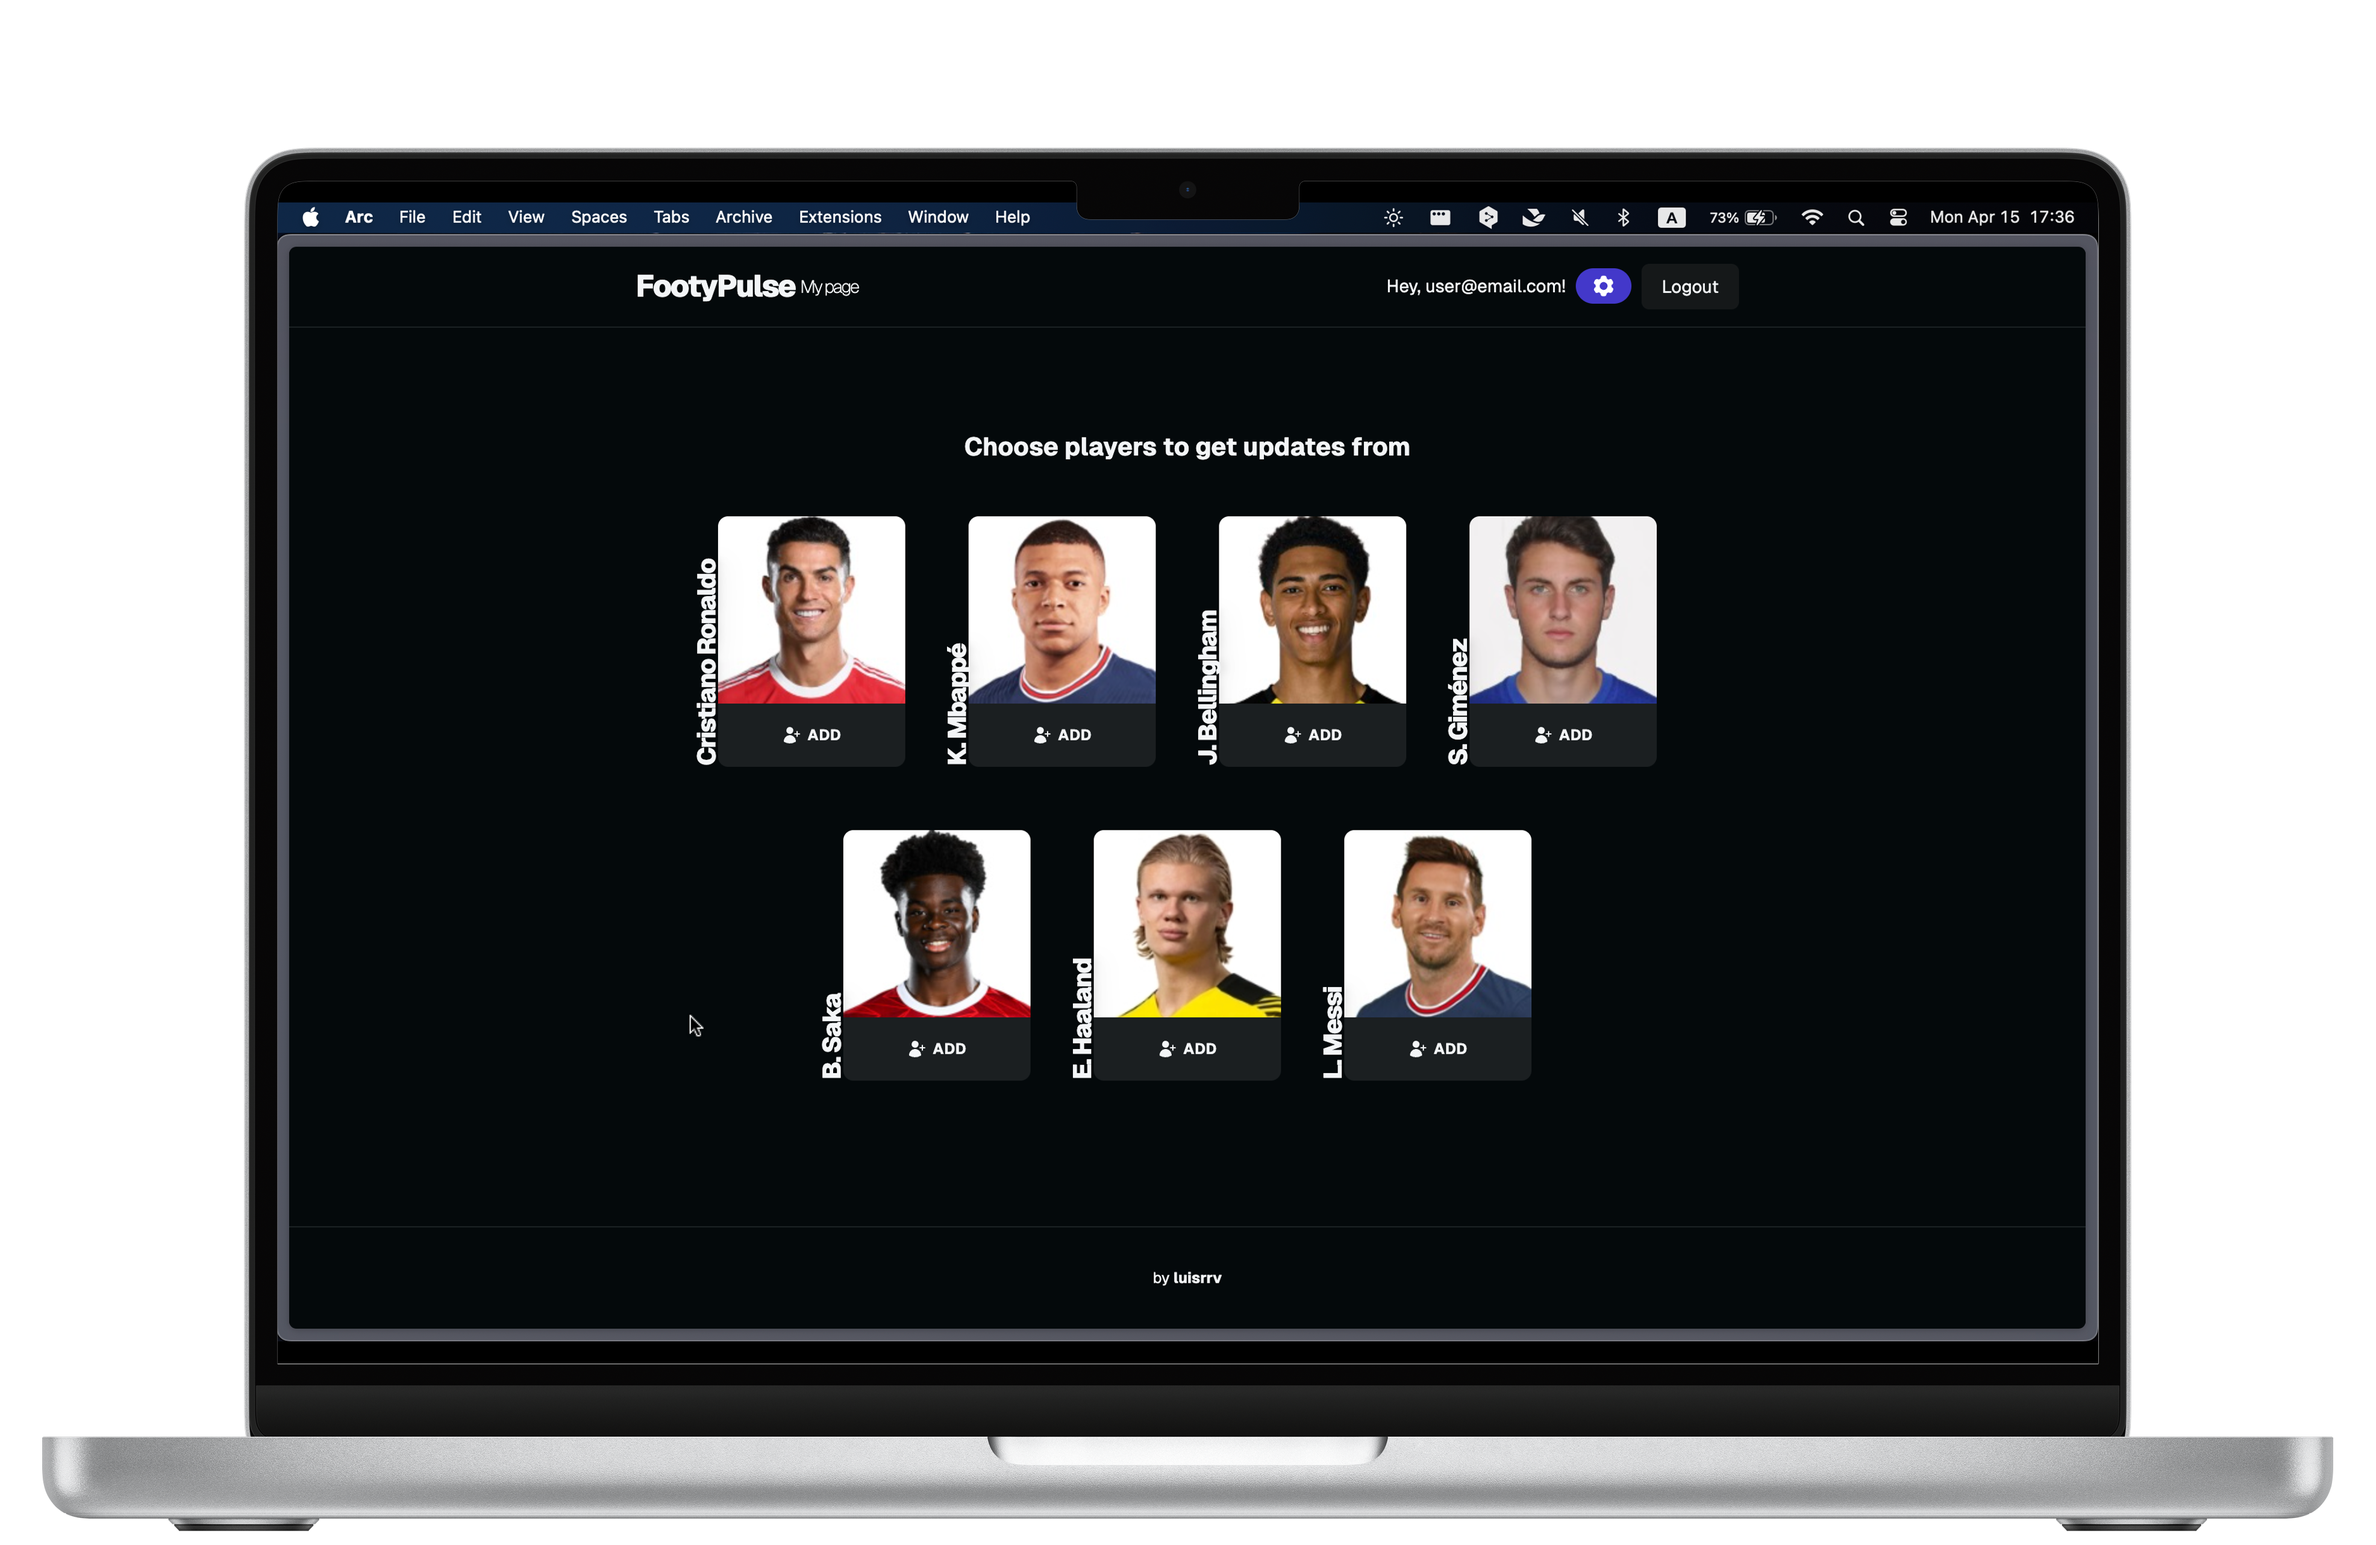
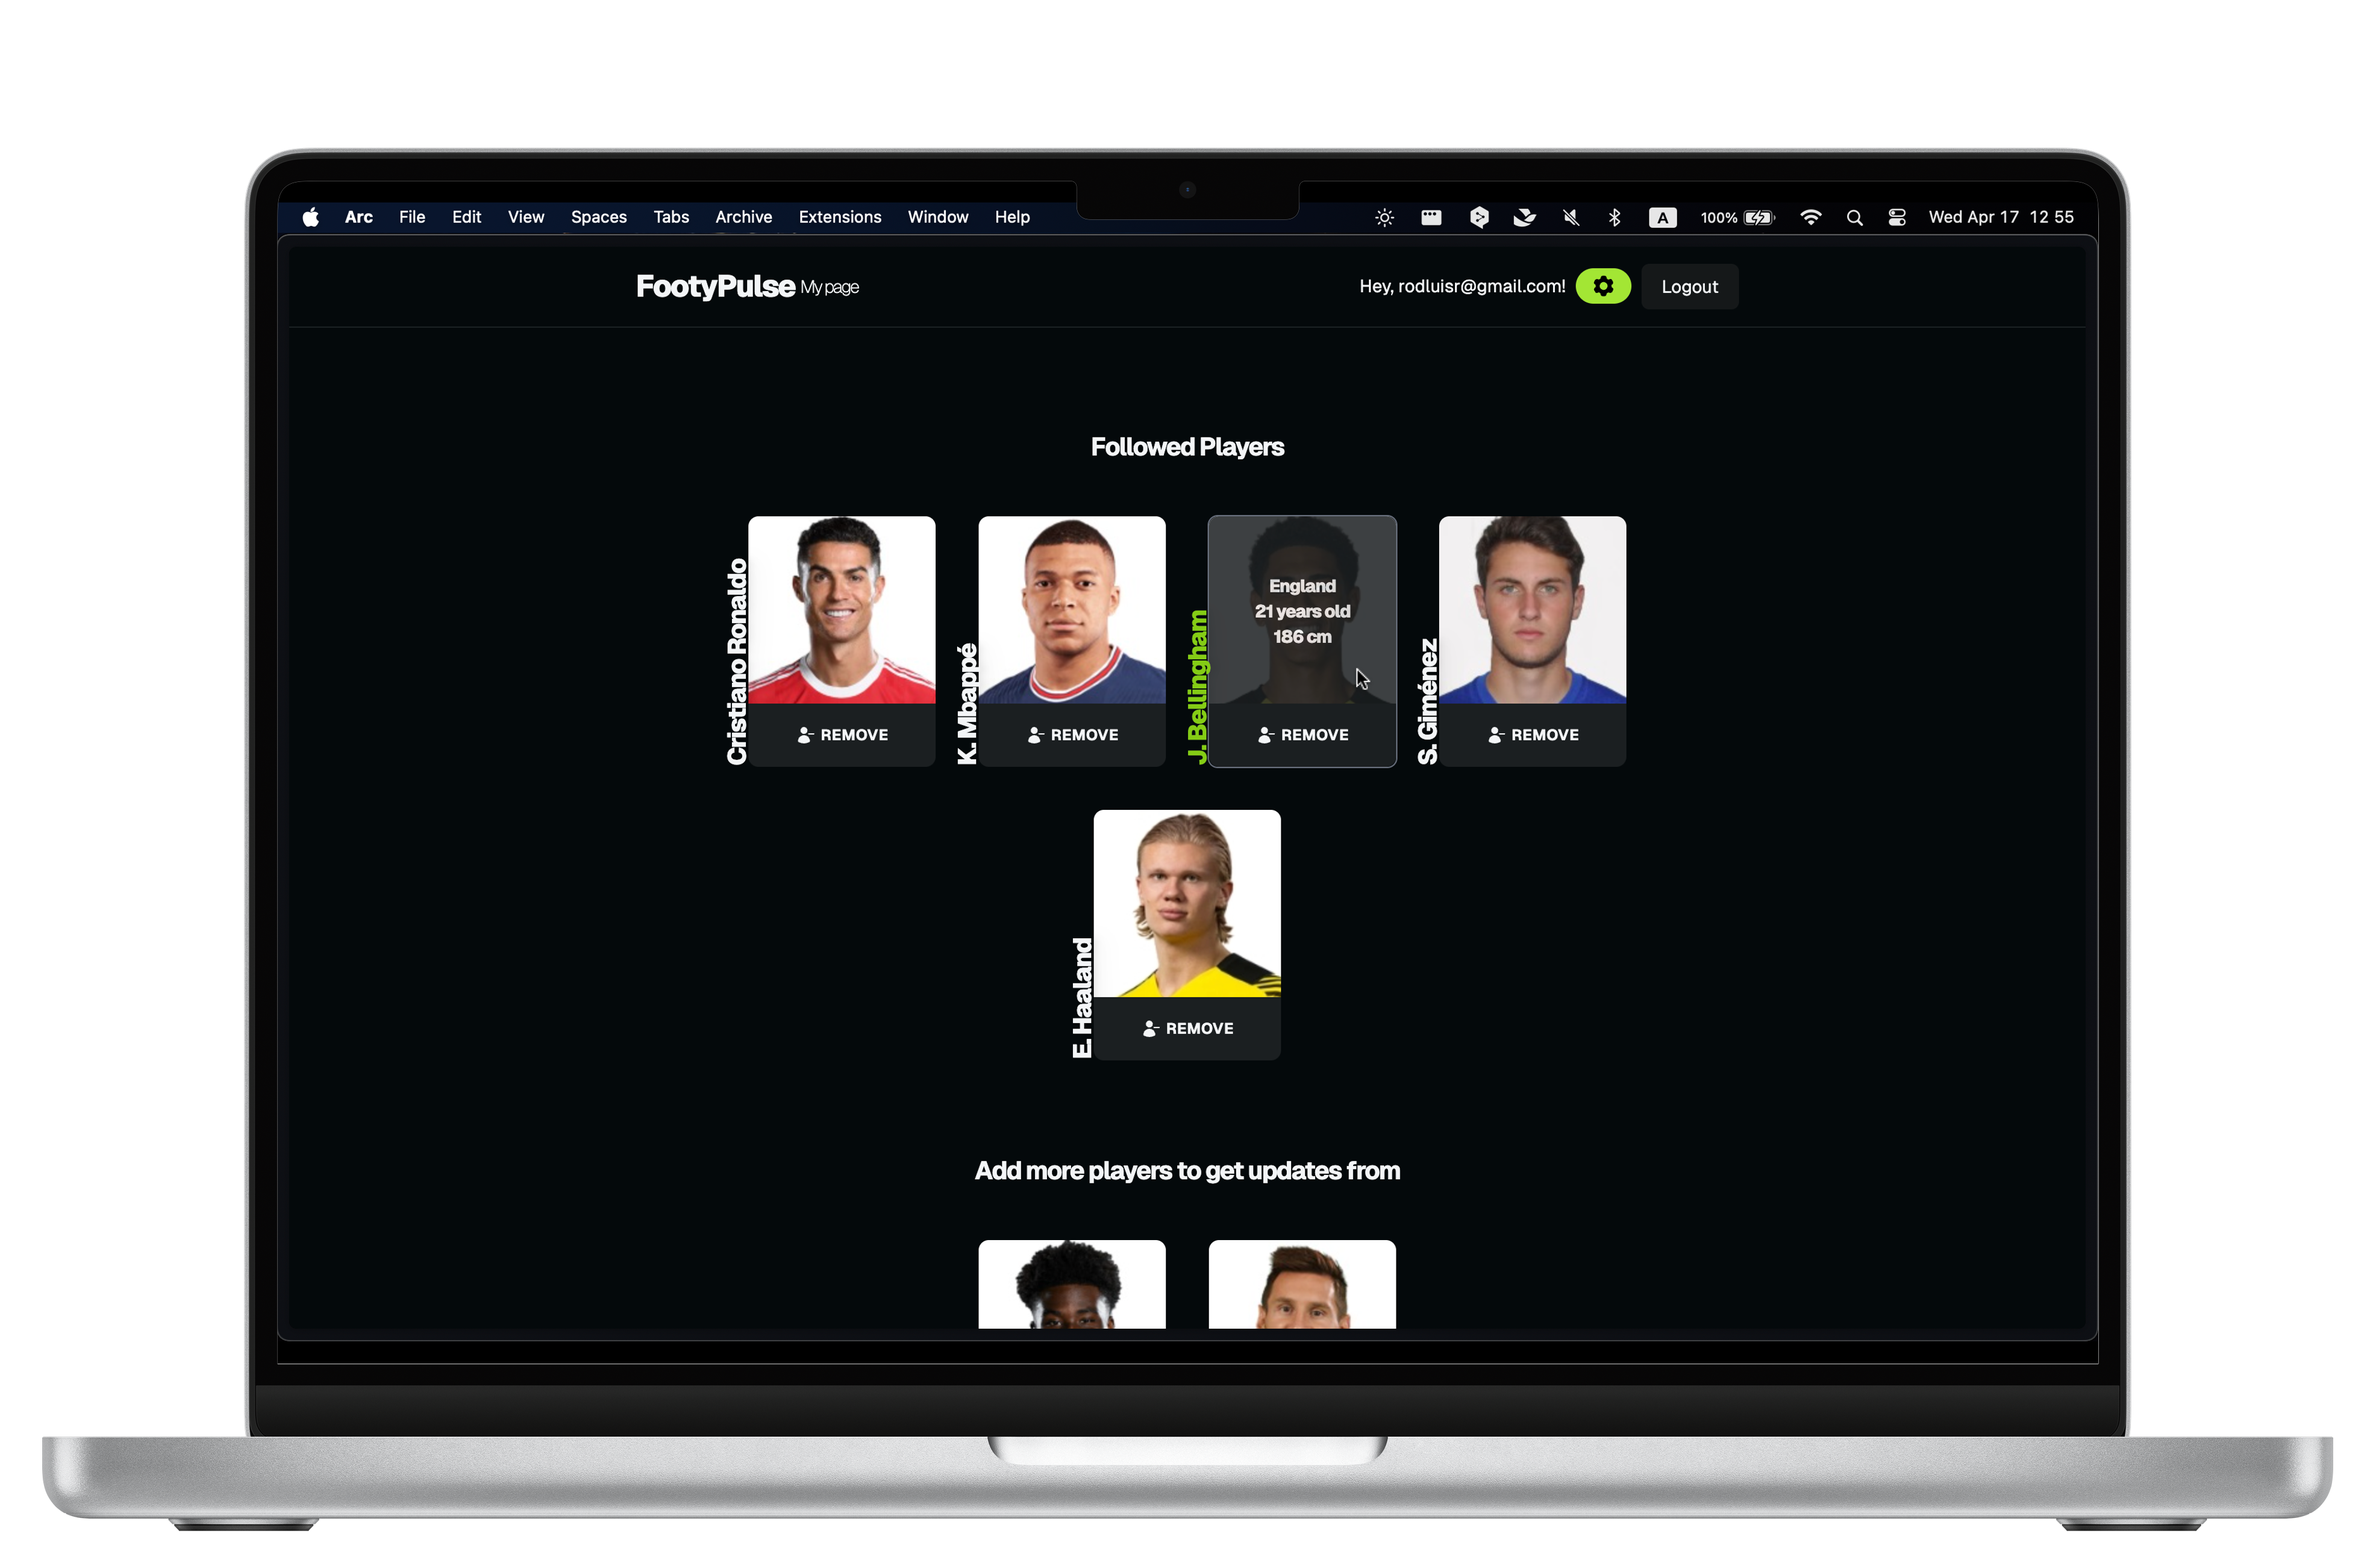
main color change

Changed region(s): [[0.0936, 0.1248, 0.9044, 0.8736], [0.2807, 0.2808, 0.7173, 0.6864]]

diff --git a/components/PlayerCard.tsx b/components/PlayerCard.tsx
@@ -25,7 +25,7 @@ const PlayerCard: React.FC<Props> = ({ playerData, add, onAddClick, onRemoveClic
 
     return (
         <div key={playerData?.id} className='relative animate-in-slow delay'>
-            <h3 className={`w-[200px] drop-shadow-lg absolute rotate-[-90deg] leading-4 h-[20px] truncate text-xl bottom-[92px] left-[-106px] font-extrabold tracking-tighter z-10`}>{playerData?.name || "No name"}</h3>
+            <h3 className={`w-[200px] drop-shadow-lg absolute rotate-[-90deg] leading-4 h-[20px] truncate text-xl bottom-[92px] left-[-106px] font-extrabold tracking-tighter z-10 ${hovered ? "text-lime-500" : "text-foreground"}`}>{playerData?.name || "No name"}</h3>
             <div
                 className={`relative bg-transparent rounded-lg w-[150px] h-[200px] ${hovered ? "border border-1 border-gray-500" : "border border-1 border-transparent"}`}
                 onMouseEnter={handleMouseEnter}
@@ -46,7 +46,7 @@ const PlayerCard: React.FC<Props> = ({ playerData, add, onAddClick, onRemoveClic
                 </div>
                 {(add) ? (
                     <button
-                        className="flex flex-row justify-center items-center gap-1 uppercase text-xs tracking-wide cursor-pointer z-10 absolute bottom-0 h-[50px] bg-btn-background-hover text-foreground hover:bg-indigo-700 hover:text-white font-bold py-2 px-4 rounded-b-lg w-full transition-colors duration-300"
+                        className="flex flex-row justify-center items-center gap-1 uppercase text-xs tracking-wide cursor-pointer z-10 absolute bottom-0 h-[50px] bg-btn-background-hover text-foreground hover:bg-lime-400 hover:text-black font-bold py-2 px-4 rounded-b-lg w-full transition-colors duration-300"
                         type="button"
                         onClick={() => {onAddClick(playerData?.footballapi_id || "")}}
                     >

diff --git a/components/DiscordPopup.tsx b/components/DiscordPopup.tsx
@@ -44,7 +44,7 @@ const DiscordPopup: React.FC<DiscordPopupProps> = ({ onClose, onAddDiscordWUrlCl
                         onChange={(e) => {setInputValue(e.target.value)}}
                     />
                 <button
-                    className={`bg-indigo-700 hover:bg-indigo-600 transition-colors duration-300 text-white py-2 px-4 mt-3 rounded-lg min-w-[100px] tracking-wide uppercase font-extrabold ${disabled ? 'opacity-30 pointer-events-none' : 'opacity-100 pointer-events-auto'}`}
+                    className={`bg-lime-400 hover:bg-lime-300 hover:text-black transition-colors duration-300 text-black py-2 px-4 mt-3 rounded-lg min-w-[100px] tracking-wide uppercase font-extrabold ${disabled ? 'opacity-30 pointer-events-none' : 'opacity-100 pointer-events-auto'}`}
                     onClick={() => {onAddDiscordWUrlClick(inputValue); onClose()}}
                 >
                     Save

diff --git a/components/DiscordButton.tsx b/components/DiscordButton.tsx
@@ -15,9 +15,9 @@ const PlayerCard: React.FC<Props> = ({ onAddDiscordWUrlClick, webhookUrl }: Prop
         <>
             <button 
                 onClick={()=>{setShowPopup(true)}}
-                className='text-white bg-indigo-700 hover:bg-indigo-600 transition-colors duration-300 rounded-full px-3 py-1'
+                className='text-white bg-lime-400 hover:bg-lime-300 transition-colors duration-300 rounded-full px-3 py-1'
             >
-                <Cog6ToothIcon className='h-5 w-5' />
+                <Cog6ToothIcon className='h-5 w-5 text-black' />
             </button>
             {showPopup && <DiscordPopup onClose={() => setShowPopup(false)} onAddDiscordWUrlClick={onAddDiscordWUrlClick} webhookUrl={webhookUrl} />}
         </>

diff --git a/app/login/page.tsx b/app/login/page.tsx
@@ -96,7 +96,7 @@ export default function Login({
         />
         <SubmitButton
           formAction={signIn}
-          className="bg-indigo-700 hover:bg-indigo-600 transition-colors duration-300 rounded-md px-4 py-2 text-white mb-2 tracking-wide uppercase font-extrabold"
+          className="bg-lime-400 hover:bg-lime-300 hover:text-black transition-colors duration-300 rounded-md px-4 py-2 text-black mb-2 tracking-wide uppercase font-extrabold"
           pendingText="Signing In..."
         >
           Sign In

diff --git a/components/AuthButton.tsx b/components/AuthButton.tsx
@@ -54,7 +54,7 @@ export default async function AuthButton() {
   ) : (
     <Link
       href="/login"
-      className="py-2 px-3 flex rounded-md no-underline bg-btn-background hover:bg-btn-background-hover"
+      className="py-2 px-3 flex rounded-md no-underline bg-btn-background hover:bg-lime-400 hover:text-black transition-colors"
     >
       Login
     </Link>
